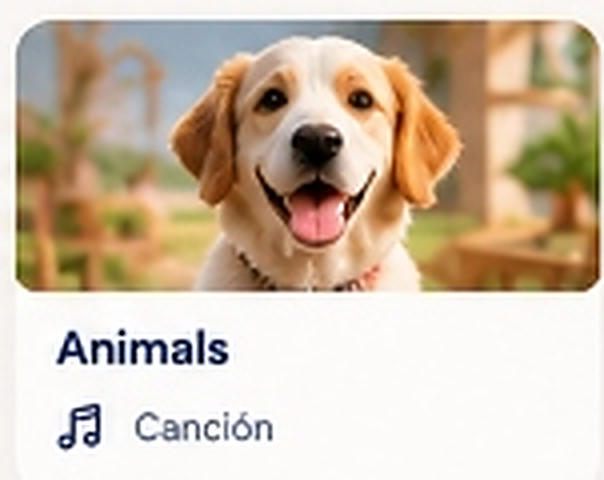
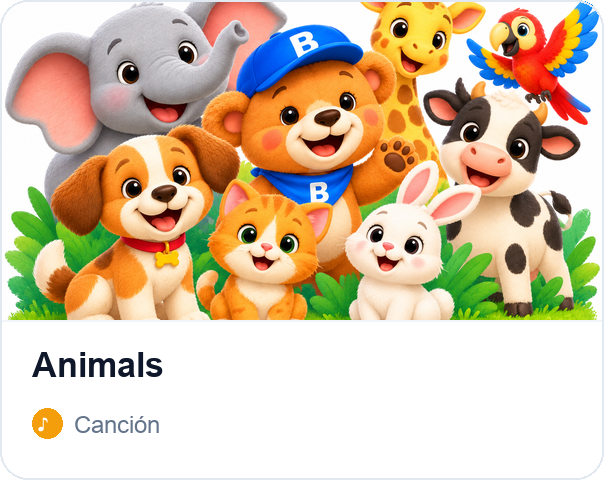
feat(babies): integrate all 12 master high-definition assets from imagen portada across hero and cards with exact proportions

diff --git a/babies.html b/babies.html
@@ -100,7 +100,7 @@
         <span class="cloud-text-line cloud-pink">Big Adventures</span>
       </div>
 
-      <img src="assets/heroes/babies_hero_3d.jpg" alt="Babies 3D Hero Art" class="subpage-hero-bg-img">
+      <img src="assets/babies_hd/babies_hero_banner.png" alt="Babies 3D Hero Art" class="subpage-hero-bg-img">
     </section>
 
     <!-- 5 CATEGORY CARDS (STORIES, VIDEOS, SONGS, GAMES, ACTIVITIES) -->

diff --git a/build_babies_cards_from_portada.py b/build_babies_cards_from_portada.py
@@ -1,0 +1,280 @@
+import os
+import math
+from PIL import Image, ImageDraw, ImageFont, ImageFilter
+
+src_dir = '/Users/erikdiaz/Desktop/imagen portada'
+dst_dir = 'assets/subpages_cards'
+os.makedirs(dst_dir, exist_ok=True)
+
+# Fonts
+f_cat_title = ImageFont.truetype('/System/Library/Fonts/Supplemental/Arial Bold.ttf', 44)
+f_cat_sub = ImageFont.truetype('/System/Library/Fonts/Supplemental/Arial.ttf', 24)
+f_arrow = ImageFont.truetype('/System/Library/Fonts/Supplemental/Arial Bold.ttf', 32)
+
+f_cont_title = ImageFont.truetype('/System/Library/Fonts/Supplemental/Arial Bold.ttf', 34)
+f_cont_meta = ImageFont.truetype('/System/Library/Fonts/Supplemental/Arial.ttf', 24)
+
+# --------------------------------------------------------------------------
+# Helper to remove background / create clean cutout for category cards
+# --------------------------------------------------------------------------
+def extract_subject(im_path, target_h=420, max_w=440):
+    im = Image.open(im_path).convert('RGBA')
+    bg = im.getpixel((5, 5))
+    w, h = im.size
+    
+    # Find bounding box of subject
+    box = [w, h, 0, 0]
+    for x in range(0, w, 8):
+        for y in range(0, h, 8):
+            c = im.getpixel((x, y))
+            diff = sum(abs(c[i]-bg[i]) for i in range(3))
+            if diff > 30:
+                box[0] = min(box[0], x)
+                box[1] = min(box[1], y)
+                box[2] = max(box[2], x)
+                box[3] = max(box[3], y)
+                
+    if box[2] > box[0] and box[3] > box[1]:
+        pad = 16
+        crop_box = (max(0, box[0]-pad), max(0, box[1]-pad), min(w, box[2]+pad), min(h, box[3]+pad))
+        cropped = im.crop(crop_box)
+    else:
+        cropped = im
+        
+    # Scale to fit target dimensions
+    scale = min(target_h / cropped.height, max_w / cropped.width)
+    new_w = int(cropped.width * scale)
+    new_h = int(cropped.height * scale)
+    scaled = cropped.resize((new_w, new_h), Image.Resampling.LANCZOS)
+    
+    # Remove background color smoothly
+    bg_scaled = scaled.getpixel((2, 2))
+    data = []
+    for p in scaled.getdata():
+        diff = sum(abs(p[i]-bg_scaled[i]) for i in range(3))
+        if diff < 20:
+            data.append((255, 255, 255, 0))
+        elif diff < 45:
+            alpha = int(255 * (diff - 20) / 25.0)
+            data.append((p[0], p[1], p[2], max(0, min(255, alpha))))
+        else:
+            data.append(p)
+    scaled.putdata(data)
+    return scaled
+
+# --------------------------------------------------------------------------
+# Generate 5 Category Cards (736 x 528)
+# --------------------------------------------------------------------------
+cat_cards = [
+    {
+        'file': 'babies_cat_stories.png',
+        'src': 'stories.png',
+        'title': 'Stories',
+        'sub': 'Cuentos en inglés',
+        'bg1': (255, 241, 245),
+        'bg2': (254, 226, 236),
+        'btn': (244, 63, 94)
+    },
+    {
+        'file': 'babies_cat_videos.png',
+        'src': 'osito.png',
+        'title': 'Videos',
+        'sub': 'Mira y aprende',
+        'bg1': (240, 249, 255),
+        'bg2': (218, 240, 252),
+        'btn': (14, 165, 233)
+    },
+    {
+        'file': 'babies_cat_songs.png',
+        'src': 'songs.png',
+        'title': 'Songs',
+        'sub': 'Escucha y canta',
+        'bg1': (254, 252, 232),
+        'bg2': (253, 240, 203),
+        'btn': (245, 158, 11)
+    },
+    {
+        'file': 'babies_cat_games.png',
+        'src': 'plays.png',
+        'title': 'Games',
+        'sub': 'Juega y practica',
+        'bg1': (250, 245, 255),
+        'bg2': (230, 223, 252),
+        'btn': (139, 92, 246)
+    },
+    {
+        'file': 'babies_cat_activities.png',
+        'src': 'muchila.png',
+        'title': 'Activities',
+        'sub': 'Manualidades y actividades',
+        'bg1': (240, 253, 244),
+        'bg2': (212, 240, 220),
+        'btn': (16, 185, 129)
+    }
+]
+
+cw, ch = 736, 528
+for c in cat_cards:
+    card = Image.new('RGBA', (cw, ch), (0, 0, 0, 0))
+    
+    # Rounded background mask
+    mask = Image.new('L', (cw, ch), 0)
+    mask_draw = ImageDraw.Draw(mask)
+    mask_draw.rounded_rectangle([(0, 0), (cw, ch)], radius=36, fill=255)
+    
+    # Background gradient
+    bg = Image.new('RGBA', (cw, ch), (255, 255, 255, 255))
+    bg_draw = ImageDraw.Draw(bg)
+    r1, g1, b1 = c['bg1']
+    r2, g2, b2 = c['bg2']
+    for y in range(ch):
+        t = y / float(ch)
+        r = int(r1 + (r2 - r1) * t)
+        g = int(g1 + (g2 - g1) * t)
+        b = int(b1 + (b2 - b1) * t)
+        bg_draw.line([(0, y), (cw, y)], fill=(r, g, b, 255))
+        
+    card.paste(bg, (0, 0), mask)
+    
+    # Extract & paste 3D art from master image
+    src_path = os.path.join(src_dir, c['src'])
+    subject = extract_subject(src_path, target_h=440, max_w=460)
+    
+    # Position subject nicely on the right
+    paste_x = cw - subject.width - 24
+    paste_y = (ch - subject.height) // 2 + 10
+    card.paste(subject, (paste_x, paste_y), subject)
+    
+    # Typography
+    draw = ImageDraw.Draw(card)
+    draw.text((44, 46), c['title'], font=f_cat_title, fill=(30, 41, 59, 255))
+    draw.text((44, 104), c['sub'], font=f_cat_sub, fill=(100, 116, 139, 255))
+    
+    # Circular Button with Arrow
+    bx, by, br = cw - 80, ch - 80, 36
+    draw.ellipse([(bx-br, by-br), (bx+br, by+br)], fill=c['btn'] + (255,))
+    draw.text((bx-14, by-20), '➔', font=f_arrow, fill=(255, 255, 255, 255))
+    
+    out_p = os.path.join(dst_dir, c['file'])
+    card.convert('RGB').save(out_p, 'PNG', optimize=True)
+    print(f'Generated category card: {c["file"]} (736x528) from {c["src"]}')
+
+# --------------------------------------------------------------------------
+# Generate 6 Continúa Cards (604 x 480)
+# --------------------------------------------------------------------------
+cont_cards = [
+    {
+        'file': 'babies_cont_colors.png',
+        'src': 'colors.png',
+        'title': 'Colors',
+        'meta_text': 'Video',
+        'meta_type': 'video'
+    },
+    {
+        'file': 'babies_cont_animals.png',
+        'src': 'animals.png',
+        'title': 'Animals',
+        'meta_text': 'Canción',
+        'meta_type': 'song'
+    },
+    {
+        'file': 'babies_cont_house.png',
+        'src': 'house.png',
+        'title': 'My House',
+        'meta_text': 'Cuento',
+        'meta_type': 'story'
+    },
+    {
+        'file': 'babies_cont_fruits.png',
+        'src': 'fruits.png',
+        'title': 'Fruits',
+        'meta_text': 'Juego',
+        'meta_type': 'game'
+    },
+    {
+        'file': 'babies_cont_hello.png',
+        'src': 'hello and good bay.png',
+        'title': 'Hello and Goodbye',
+        'meta_text': 'Video',
+        'meta_type': 'video'
+    },
+    {
+        'file': 'babies_cont_shapes.png',
+        'src': 'colores.png',
+        'title': 'Shapes',
+        'meta_text': 'Actividad',
+        'meta_type': 'activity'
+    }
+]
+
+cw, ch = 604, 480
+thumb_h = 320
+body_h = ch - thumb_h
+
+for c in cont_cards:
+    card = Image.new('RGBA', (cw, ch), (255, 255, 255, 255))
+    
+    # Master artwork
+    src_p = os.path.join(src_dir, c['src'])
+    m_im = Image.open(src_p).convert('RGB')
+    
+    # Scale to cover top area (604 x 320)
+    scale = max(cw / m_im.width, thumb_h / m_im.height)
+    sw = int(m_im.width * scale)
+    sh = int(m_im.height * scale)
+    m_scaled = m_im.resize((sw, sh), Image.Resampling.LANCZOS)
+    
+    # Center crop
+    crop_x = (sw - cw) // 2
+    crop_y = (sh - thumb_h) // 2
+    thumb = m_scaled.crop((crop_x, crop_y, crop_x + cw, crop_y + thumb_h))
+    
+    card.paste(thumb, (0, 0))
+    
+    # Bottom white body
+    draw = ImageDraw.Draw(card)
+    draw.rectangle([(0, thumb_h), (cw, ch)], fill=(255, 255, 255, 255))
+    # Separator line
+    draw.line([(0, thumb_h), (cw, thumb_h)], fill=(241, 245, 249, 255), width=2)
+    
+    # Title
+    draw.text((32, thumb_h + 26), c['title'], font=f_cont_title, fill=(15, 23, 42, 255))
+    
+    # Meta badge: icon circle + text
+    icon_y = thumb_h + 88
+    if c['meta_type'] == 'video':
+        # Blue circle with white triangle
+        draw.ellipse([(32, icon_y), (32+30, icon_y+30)], fill=(2, 132, 199, 255))
+        draw.polygon([(42, icon_y+8), (42, icon_y+22), (54, icon_y+15)], fill=(255, 255, 255, 255))
+    elif c['meta_type'] == 'song':
+        draw.ellipse([(32, icon_y), (32+30, icon_y+30)], fill=(245, 158, 11, 255))
+        draw.text((38, icon_y+4), '♪', font=ImageFont.truetype('/System/Library/Fonts/Supplemental/Arial Bold.ttf', 20), fill=(255, 255, 255, 255))
+    elif c['meta_type'] == 'story':
+        draw.ellipse([(32, icon_y), (32+30, icon_y+30)], fill=(244, 63, 94, 255))
+        draw.text((38, icon_y+4), '📖', font=ImageFont.truetype('/System/Library/Fonts/Supplemental/Arial.ttf', 18), fill=(255, 255, 255, 255))
+    elif c['meta_type'] == 'game':
+        draw.ellipse([(32, icon_y), (32+30, icon_y+30)], fill=(139, 92, 246, 255))
+        draw.text((36, icon_y+4), '🎮', font=ImageFont.truetype('/System/Library/Fonts/Supplemental/Arial.ttf', 18), fill=(255, 255, 255, 255))
+    else:
+        draw.ellipse([(32, icon_y), (32+30, icon_y+30)], fill=(16, 185, 129, 255))
+        draw.text((38, icon_y+4), '✏', font=ImageFont.truetype('/System/Library/Fonts/Supplemental/Arial.ttf', 18), fill=(255, 255, 255, 255))
+        
+    draw.text((74, icon_y + 3), c['meta_text'], font=f_cont_meta, fill=(100, 116, 139, 255))
+    
+    # Outer rounded mask
+    mask = Image.new('L', (cw, ch), 0)
+    mask_draw = ImageDraw.Draw(mask)
+    mask_draw.rounded_rectangle([(0, 0), (cw, ch)], radius=28, fill=255)
+    
+    final_card = Image.new('RGB', (cw, ch), (255, 255, 255))
+    final_card.paste(card.convert('RGB'), (0, 0), mask)
+    
+    # Draw subtle border
+    fdraw = ImageDraw.Draw(final_card)
+    fdraw.rounded_rectangle([(0, 0), (cw-1, ch-1)], radius=28, outline=(226, 232, 240), width=2)
+    
+    out_p = os.path.join(dst_dir, c['file'])
+    final_card.save(out_p, 'PNG', optimize=True)
+    print(f'Generated continua card: {c["file"]} (604x480) from {c["src"]}')
+
+print('All 11 cards successfully generated from imagen portada!')
